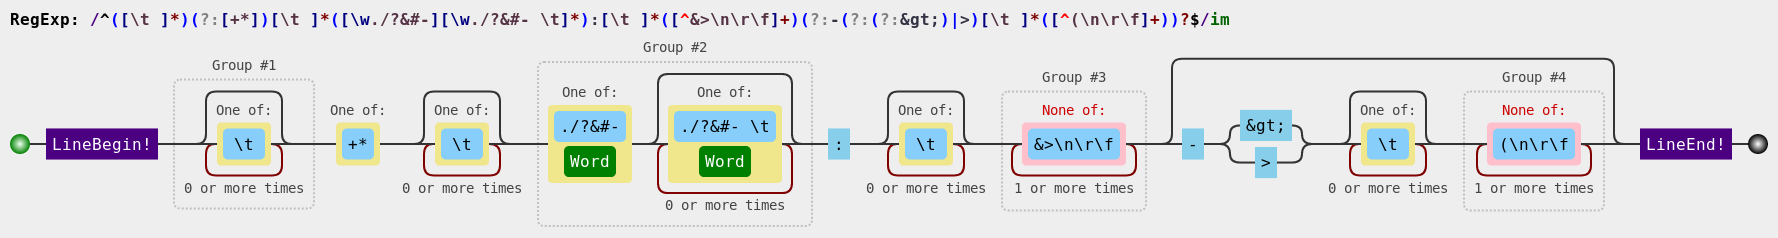
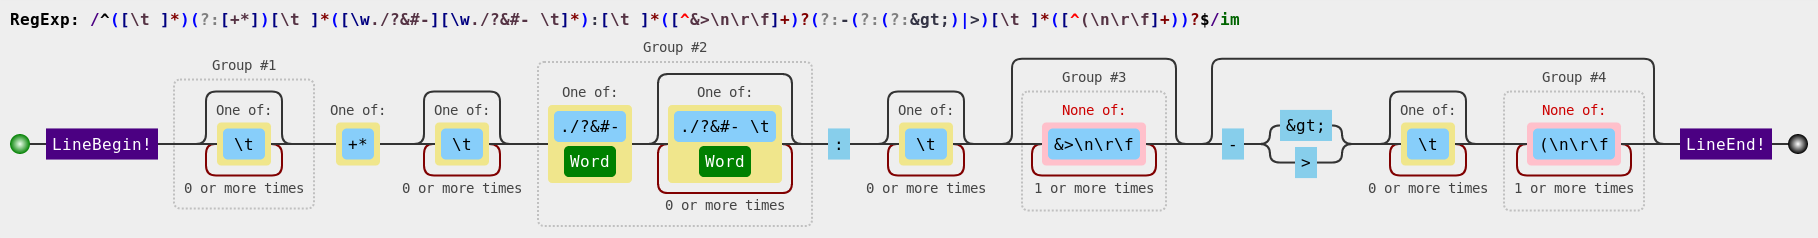
refactor (entity & field): changes in the syntax & feat (dccs): slider

diff --git a/versum/syntax.md b/versum/syntax.md
@@ -186,7 +186,7 @@ This content is further converted to HTML by the compiler.
 ## Field
 ### Markdown to Object
 * Sentence: `+ [field]: [value] -> [target]` or `* [field]: [value] -> [target]`
-* Expression: `^([ \t]*)(?:[\+\*])[ \t]*([\w.\/\?&#\-][\w.\/\?&#\- \t]*):[ \t]*([^&>\n\r\f]+)(?:-(?:(?:&gt;)|>)[ \t]*([^\(\n\r\f]+))?$`
+* Expression: `^([ \t]*)(?:[\+\*])[ \t]*([\w.\/\?&#\-][\w.\/\?&#\- \t]*):[ \t]*([^&>\n\r\f]+)?(?:-(?:(?:&gt;)|>)[ \t]*([^\(\n\r\f]+))?$`
   * Group #1: subordinate
   * Group #2: field
   * Group #3: value
@@ -198,11 +198,15 @@ This content is further converted to HTML by the compiler.
    type: "field"
    presentation: <unprocessed content in markdown>
    subordinate: <subordination according to spaces preceeding>
+   level: <level of subordination (if subordinate)>
    field: <label of the field>
    value: <value of the field>
    target: <target triggered when the state/value is achieved>
 }
 ```
+The level of subordination is calculated as follows: for each tab or two spaces preceding the field, it counts one.
+
+Fields are grouped according to the subordination, i.e., if one field B succeeds another field B and B has a level of subordination greater than A, B becomes a field of the value of A.
 ### Object to HTML
 ```
 <unprocessed content in markdown>
@@ -240,7 +244,7 @@ This content is further converted to HTML by the compiler.
     !\[alt-text\]([image path] "[title]")
     [speech]
     ~~~
-* Expression: `@(?:(\w[\w \t]*)|"([\w \t]*)")(?:$|:[ \t]*([^\n\r\f]+))`
+* Expression: `@(?:(\w[\w \t]*)|"([\w \t]*)")(?:$|:[ \t]*)`
   * Group #1: entity (without quotes)
   * Group #2: entity (with quotes)
   * Group #3: speech

diff --git a/dccs/README.md b/dccs/README.md
@@ -152,7 +152,7 @@ The following example shows the message `I am a doctor.` when the button with th
 </dcc-lively-talk>
 ~~~
 
-The following example shows a character that you tall "Hello *your name*" when you type your name.
+The following example shows a character that tells you "Hello *your name*" when you type your name.
 
 ~~~html
 <dcc-input variable="name">Type your name:</dcc-input>
@@ -162,6 +162,19 @@ The following example shows a character that you tall "Hello *your name*" when y
                  character="doctor"
                  speech="Hello ">
   <subscribe-dcc message="var/name/changed"></subscribe>
+</dcc-lively-talk>
+~~~
+
+Or how a character tells you "Your age is *your age*" when you define your age in the slider.
+
+~~~html
+<dcc-slider variable="age" index>Select your age:</dcc-slider>
+
+<dcc-lively-talk id="doctor"
+                 duration="0s"
+                 character="doctor"
+                 speech="Your age is  ">
+  <subscribe-dcc message="var/age/changed"></subscribe>
 </dcc-lively-talk>
 ~~~
 
